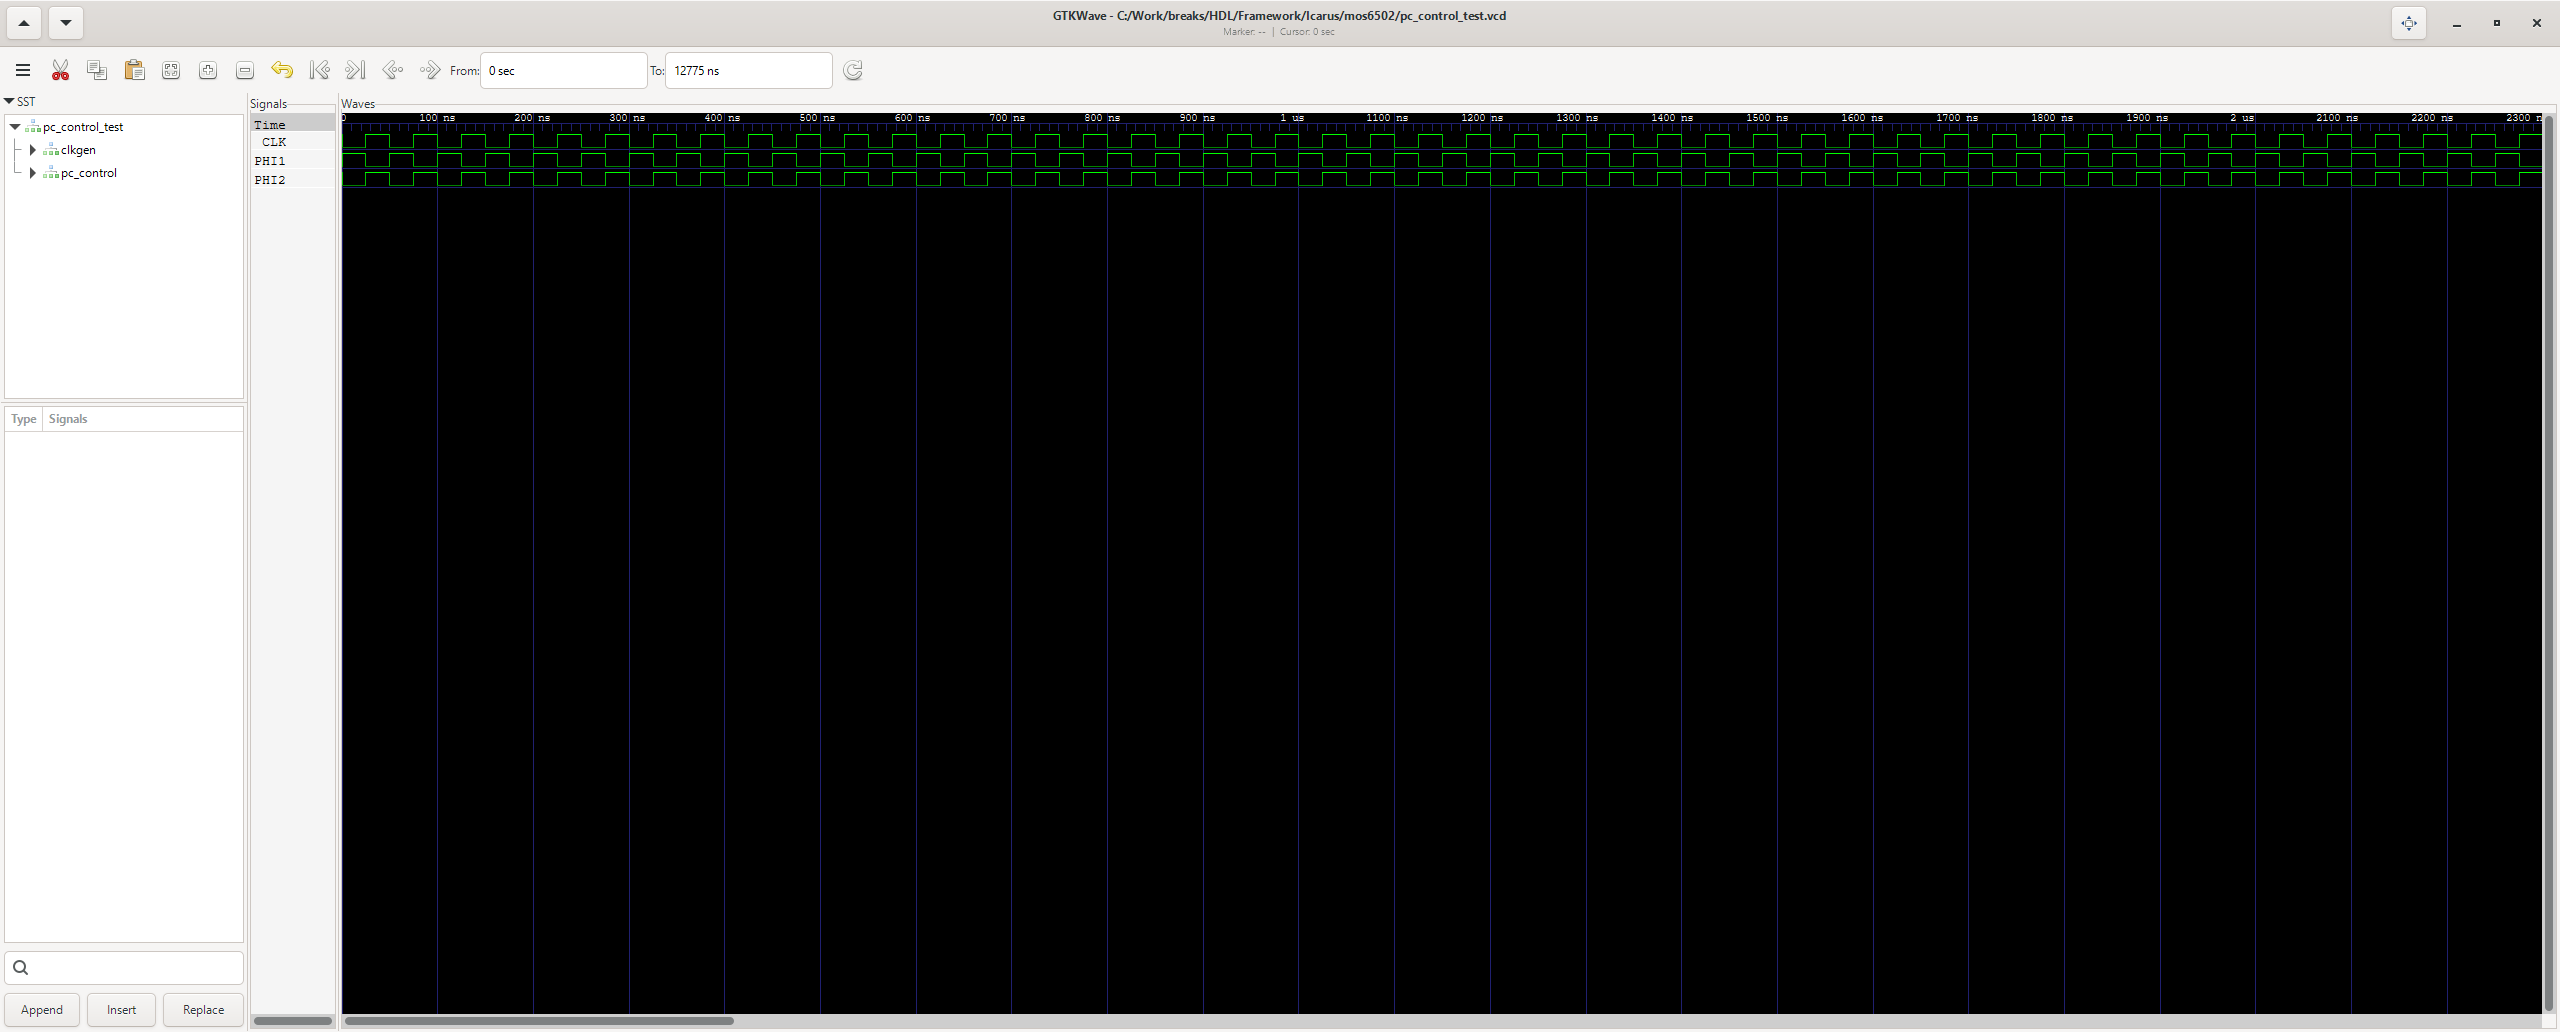
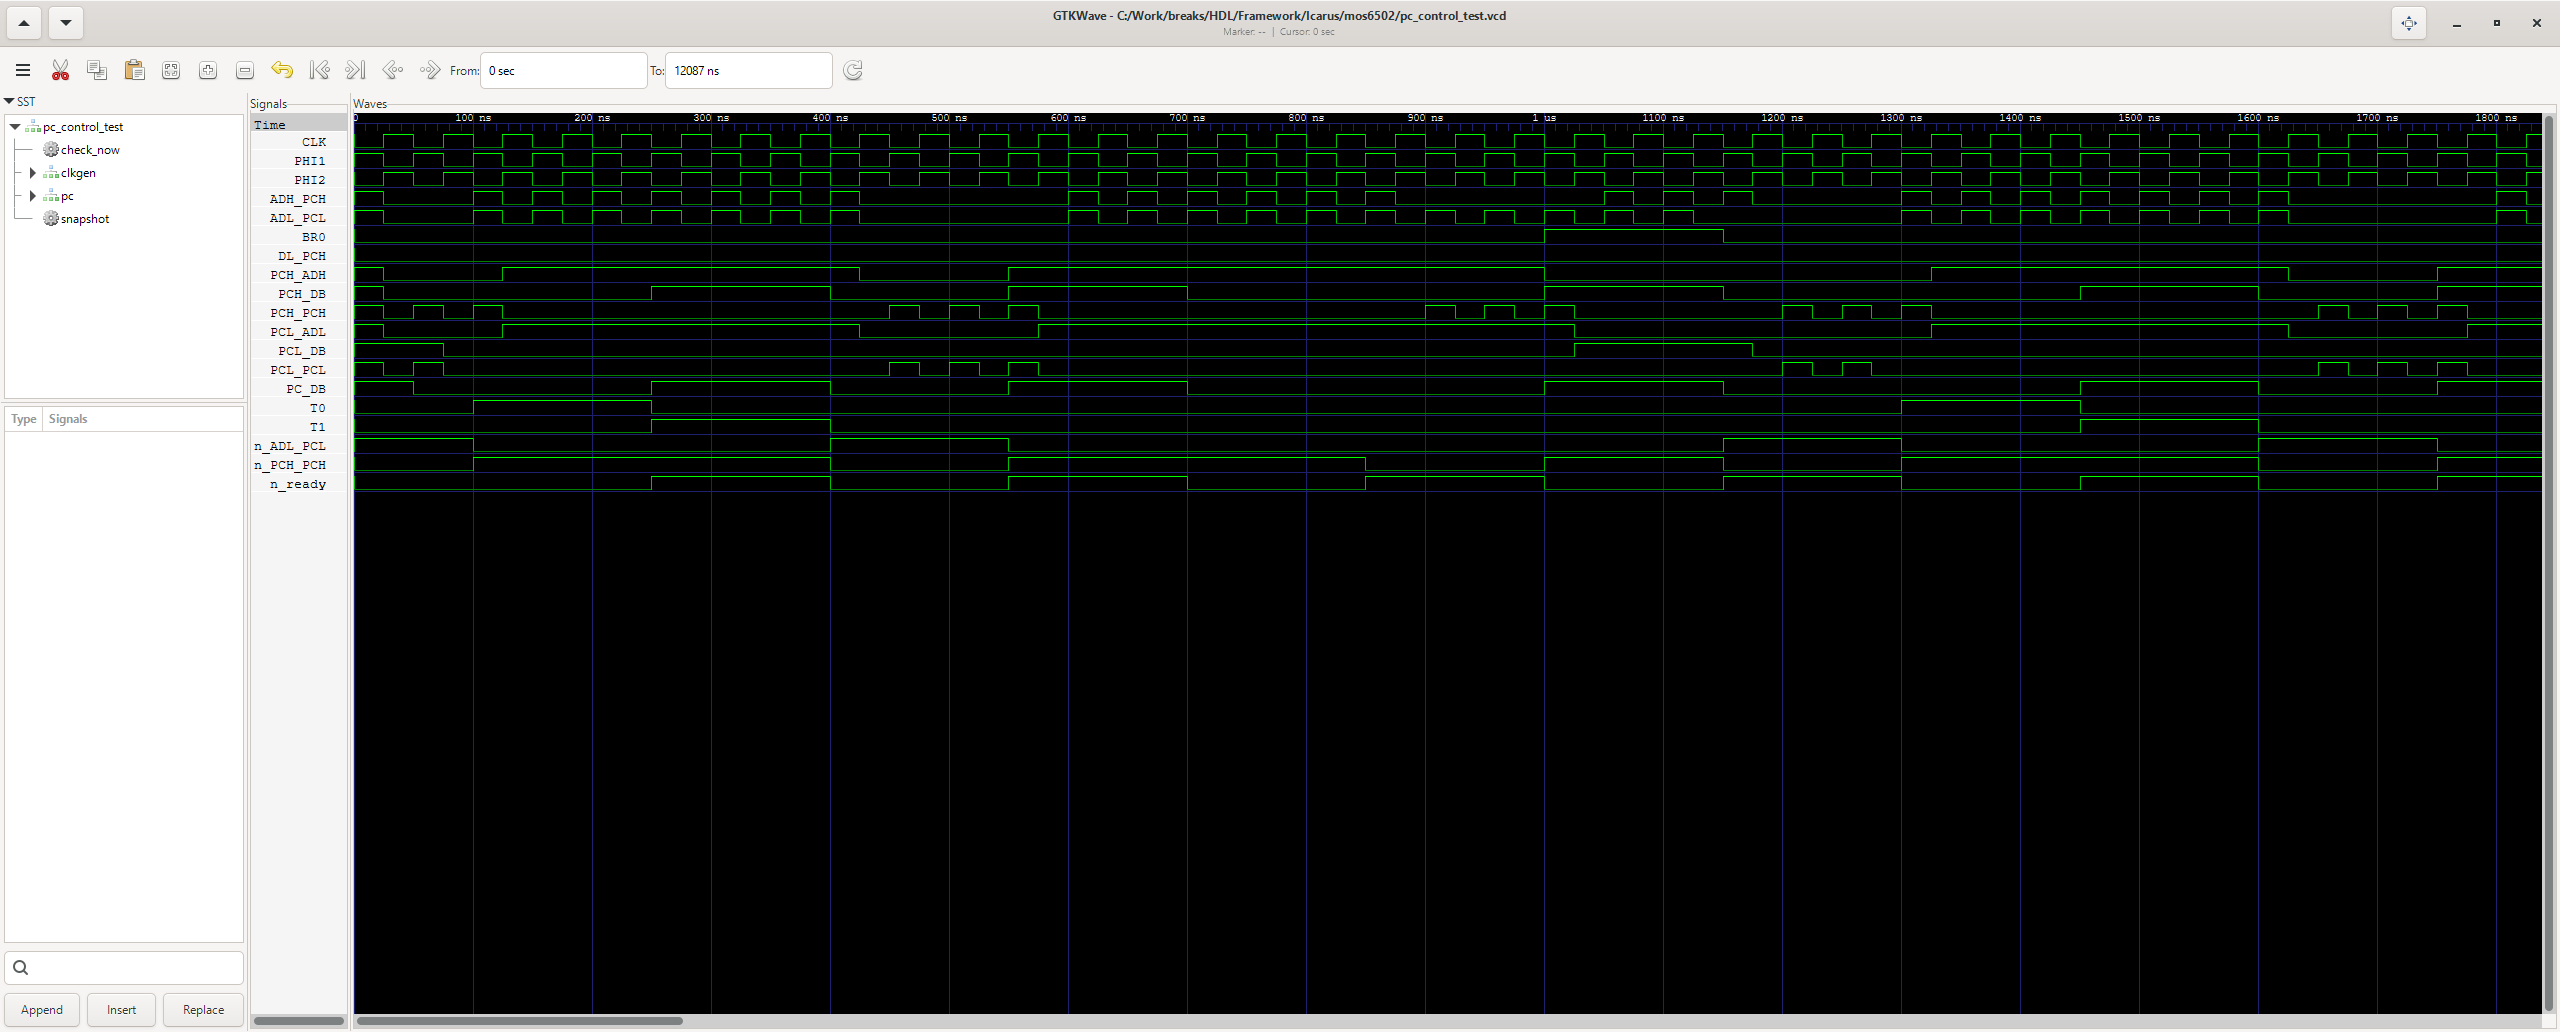
6502 tests: self-checking pc control test
PC_Control is built of PHI1/PHI2 latch chains with no simple combinational
truth table, so the test verifies the two observable properties: every
output settles to 0/1 in both phases for the swept vectors, and the command
set is deterministic (replaying the same vector reproduces the same
outputs) - 200 checks, TEST PASS. Waveform screenshot regenerated.

diff --git a/HDL/Framework/Icarus/mos6502/Waves.md b/HDL/Framework/Icarus/mos6502/Waves.md
@@ -33,7 +33,7 @@ Scripts/gtkw_capture_all.sh
 | alu_control_test | TEST PASS (384 checks) | ![waves/alu_control_test.png](waves/alu_control_test.png) |
 | bus_control_test | TEST PASS (195 checks) | ![waves/bus_control_test.png](waves/bus_control_test.png) |
 | flags_control_test | TEST PASS (1056 checks) | ![waves/flags_control_test.png](waves/flags_control_test.png) |
-| pc_control_test | waveform | ![waves/pc_control_test.png](waves/pc_control_test.png) |
+| pc_control_test | TEST PASS (200 checks) | ![waves/pc_control_test.png](waves/pc_control_test.png) |
 | regs_control_test | TEST PASS (880 checks) | ![waves/regs_control_test.png](waves/regs_control_test.png) |
 | pc_test | waveform | ![waves/pc_test.png](waves/pc_test.png) |
 | regs_test | TEST PASS (9 checks) | ![waves/regs_test.png](waves/regs_test.png) |
